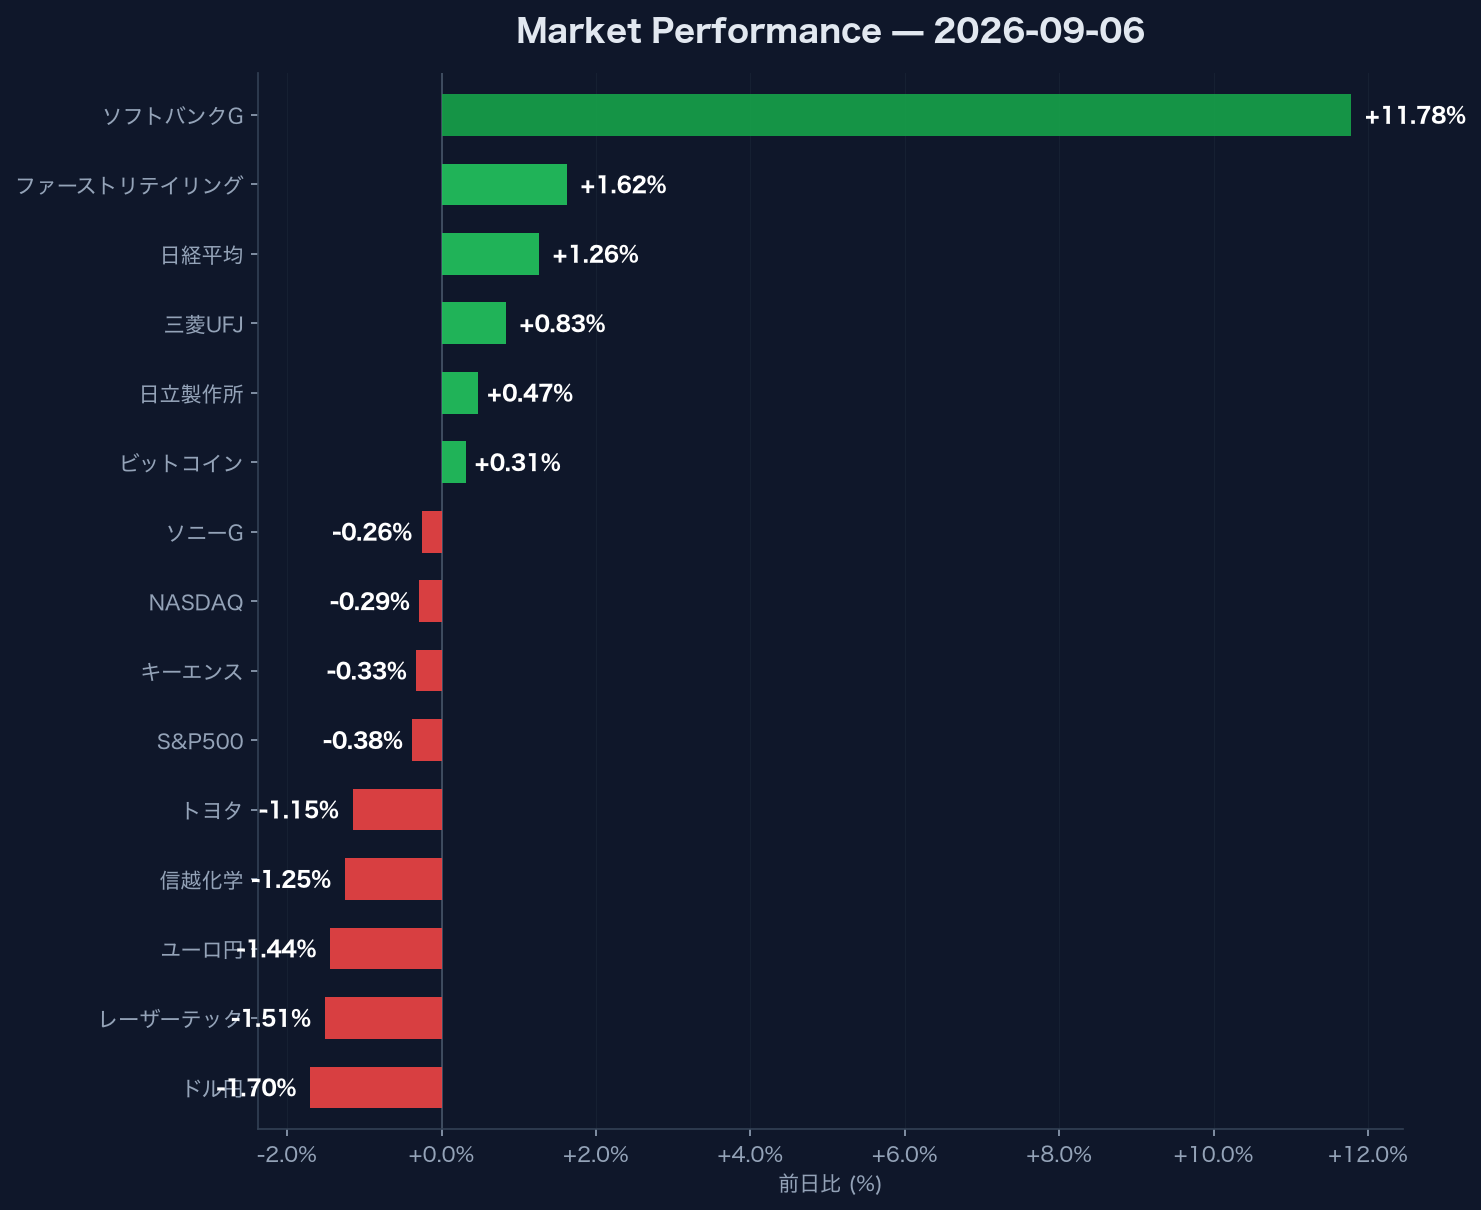
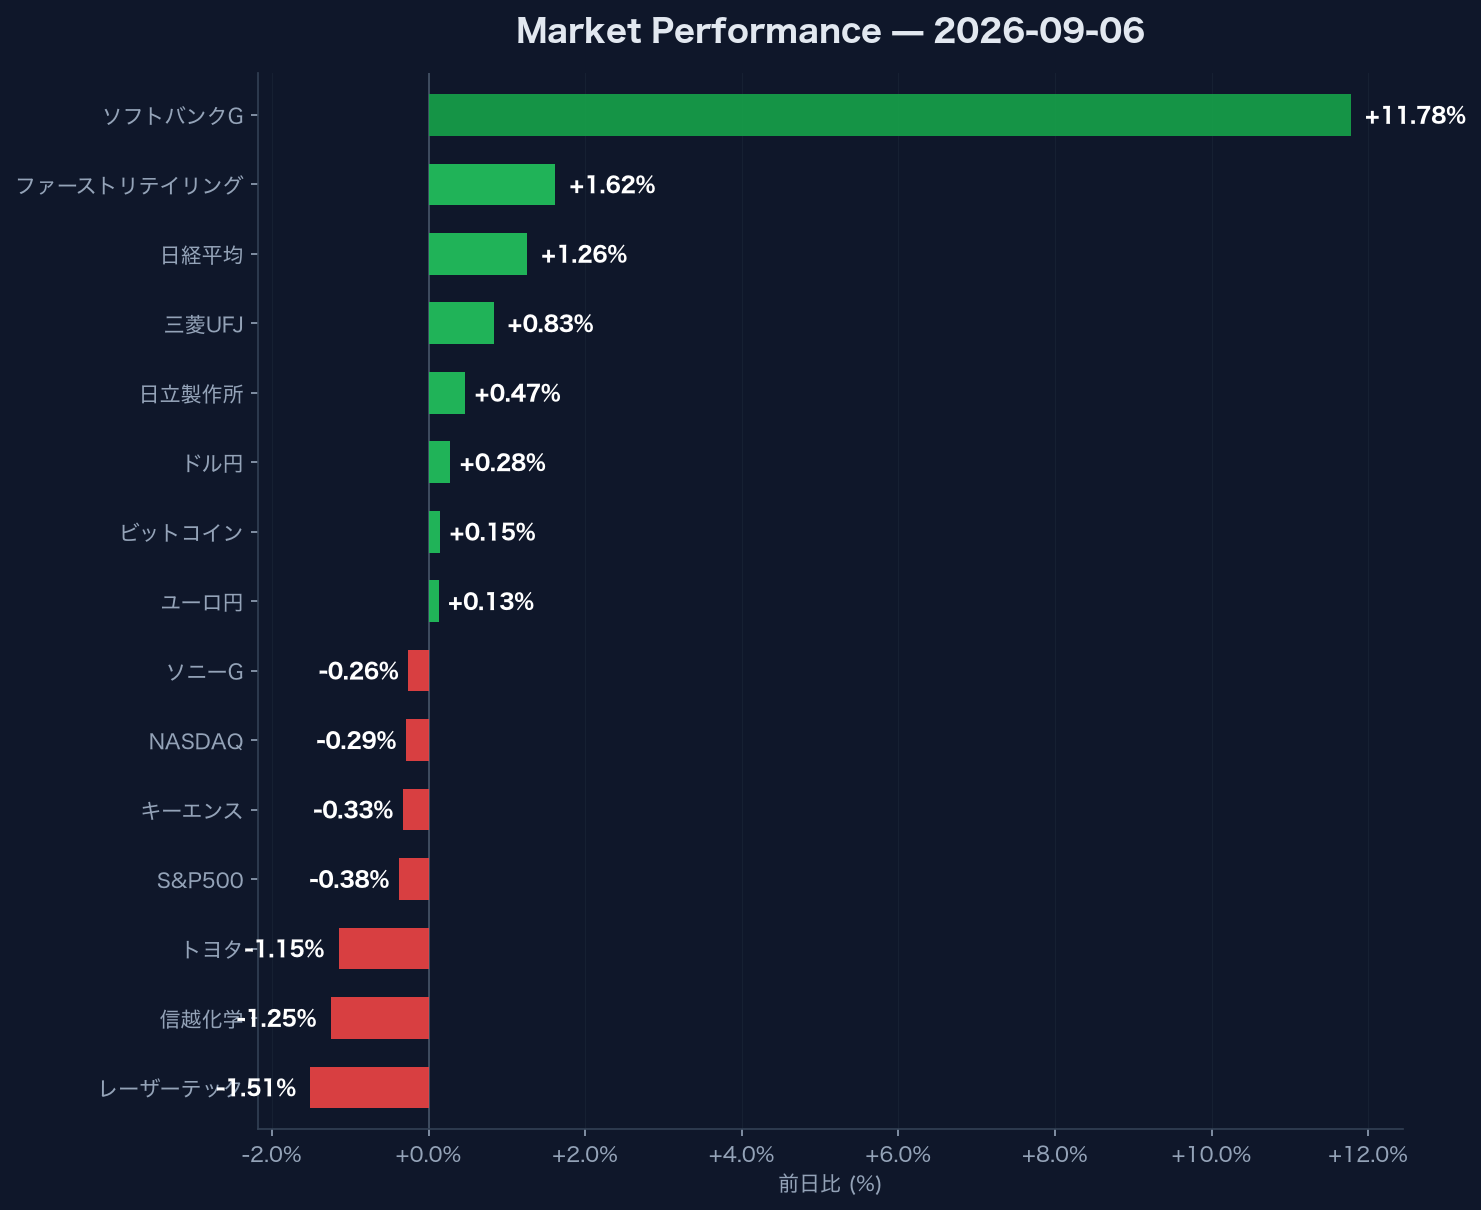
Publish: 2026-09-06-market-daily

diff --git a/articles/2026-09-06-market-daily.md b/articles/2026-09-06-market-daily.md
@@ -1,12 +1,12 @@
 ---
-title: "今日の市場ブリーフィング"
+title: "-focused"
 emoji: "📊"
 type: "tech"
 topics: ["finance", "investment", "economy", "data", "ai"]
 published: true
 ---
 
-# 日経平均65,000円超えの裏で何が起きているか？2026年9月6日の市場データから読み解く投資判断の3大チェックポイント
+# 日経平均65,000円台到達と米国株軟調から読み解くマーケットの選別シグナル
 
 
 ![Market Overview](/images/2026-09-06_market_summary.png)
@@ -14,8 +14,37 @@ published: true
 ![Market Performance](/images/2026-09-06_market_performance.png)
 
 ## この記事で分かること
-- **ソフトバンクG単独牽引による日経平均65,000円突破の歪んだ構造**
-- **米金利高（4.78%）と急激な円高（156.22円）が日米ハイテク株に与えるリスク**
-- **半導体・自動車銘柄の下落局面でエンジニア投資家が取るべきポートフォリオ再構築手順**
 
-## 日経平均65,000
+- **日経平均65,000円突破の裏で起きているソフトバンクG一極集中と半導体株安の構造**
+- **米10年債利回り4.78%上昇とVIX高が米国テック株評価に与える下落圧力の理由**
+- **156円台のドル円推移と80,000ドル手前で停滞するビットコインから見る資金フロー**
+
+## 日経平均が65,000円台でも主力テック株を安易に買えない理由
+
+日経平均株価は前日比+1.26%の65,020.94円（出来高155,800,000株）と65,000円台の大台を達成しましたが、指数の上昇は特定銘柄の急伸に強く依存しています。全体買戻しの相場ではなく、銘柄ごとの明暗が明確に分かれる選別局面に入っているため注意が必要です。
+
+指数の押し上げを牽引したのはソフトバンクグループ（9984.T）です。前日比+11.78%の5,590.00円と急伸し、単一銘柄で全体を大きく牽引しました。これに加えてファーストリテイリング（9983.T）が+1.62%（69,100.00円）、三菱UFJ（8306.T）が+0.83%（3,785.00円）、日立製作所（6501.T）が+0.47%（5,377.00円）とプラス圏で推移し、指数を支えています。
+
+一方で、ハイテク・製造業の主力銘柄には明確な売り圧力がかかっています。レーザーテック（6920.T）が-1.51%（33,180.00円）、信越化学（4063.T）が-1.25%（5,786.00円）、トヨタ（7203.T）が-1.15%（3,081.00円）、キーエンス（6861.T）が-0.33%（77,720.00円）、ソニーG（6758.T）が-0.26%（3,885.00円）と軒並み下落しました。
+
+:::message
+指数全体の表面的なプラスに惑わされず、どのセクターに資金が流入し、どのセクターから資金が流出しているかを個別に確認することが重要です。
+:::
+
+:::details 日本市場の主力銘柄・騰落データ一覧
+- **上昇銘柄**:
+  - ソフトバンクグループ (9984.T): 5,590.00円 (+11.78%)
+  - ファーストリテイリング (9983.T): 69,100.00円 (+1.62%)
+  - 三菱UFJフィナンシャル・グループ (8306.T): 3,785.00円 (+0.83%)
+  - 日立製作所 (6501.T): 5,377.00円 (+0.47%)
+- **下落銘柄**:
+  - レーザーテック (6920.T): 33,180.00円 (-1.51%)
+  - 信越化学工業 (4063.T): 5,786.00円 (-1.25%)
+  - トヨタ自動車 (7203.T): 3,081.00円 (-1.15%)
+  - キーエンス (6861.T): 77,720.00円 (-0.33%)
+  - ソニーグループ (6758.T): 3,885.00円 (-0.26%)
+:::
+
+## 米国マクロ指標の下落が示すリスクオフの兆候を見極める方法
+
+米国の主要株価指数は揃って軟
